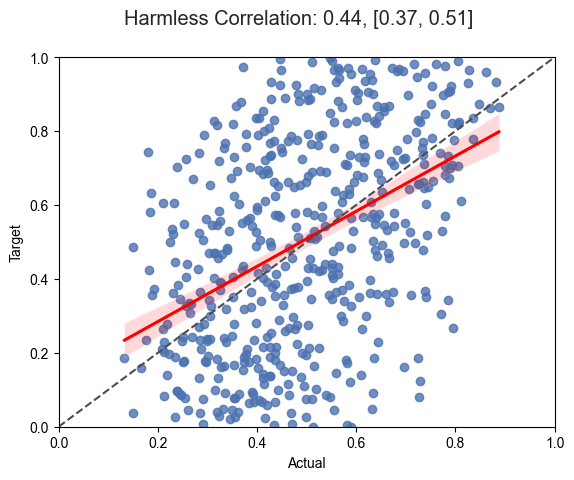
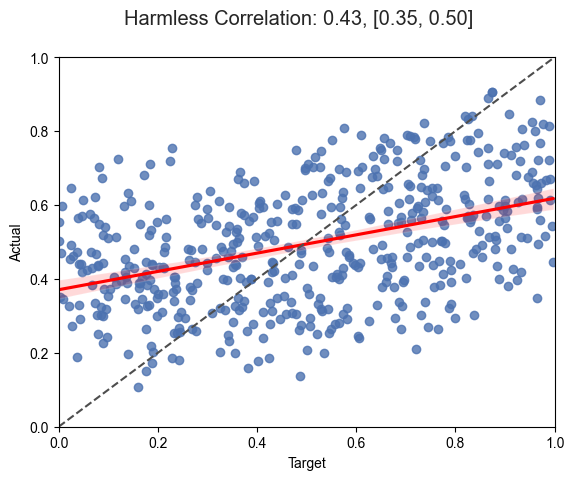
update to flip the axes for images

diff --git a/train/evaluate_separate_policy.py b/train/evaluate_separate_policy.py
@@ -53,7 +53,7 @@ from train.metrics.reward_metric import HelpfulHarmlessEvaluationMetric
 from train.neptune_utils.runs import get_openai_model_from_neptune
 from train.normalizer.reward_normalizer import (
     get_separate_normalizer_from_neptune,
-    RewardNormalizer,
+    RewardNormalizer, DoNothingNormalizer,
 )
 from train.policy_prompt_formatter import (
     PolicyPromptFormatter,
@@ -343,28 +343,28 @@ def plot_random_reward_evaluations(
     )
 
     harmless_results: ScatterplotResults = plot_scatterplot_and_correlation(
-        x=actual_harmless,
-        y=target_harmless,
+        y=actual_harmless,
+        x=target_harmless,
         title="Harmless",
-        xlabel="Actual",
-        ylabel="Target",
+        ylabel="Actual",
+        xlabel="Target",
     )
 
     helpful_results = plot_scatterplot_and_correlation(
-        x=actual_helpful,
-        y=target_helpful,
+        y=actual_helpful,
+        x=target_helpful,
         title="Helpful",
-        xlabel="Actual",
-        ylabel="Target",
+        ylabel="Actual",
+        xlabel="Target",
     )
 
     # plot Actual helpful vs Actual Harmless
     helpful_vs_harmless_results = plot_scatterplot_and_correlation(
-        x=actual_helpful,
-        y=actual_harmless,
+        y=actual_helpful,
+        x=actual_harmless,
         title="Helpful vs Harmless",
-        xlabel="Actual Helpful",
-        ylabel="Actual Harmless",
+        ylabel="Actual Helpful",
+        xlabel="Actual Harmless",
     )
 
     return HelpfulHarmlessScatterplots(
@@ -506,7 +506,7 @@ def log_results_to_neptune(
 
 if __name__ == "__main__":
     # Optionally retrieve the openai model id from neptune
-    run_id = "OF-53"
+    run_id = "OF-8"
     neptune_project = OFFLINE_SEPARATE_POLICY_NEPTUNE_PROJECT
     policy_model_id = get_openai_model_from_neptune(
         neptune_api_key=NEPTUNE_KEY,
@@ -514,11 +514,7 @@ if __name__ == "__main__":
         neptune_run_id=run_id,
     )
     # Optionally retrieve the normalizer from neptune
-    normalizer = get_separate_normalizer_from_neptune(
-        neptune_api_key=NEPTUNE_KEY,
-        neptune_project_name=neptune_project,
-        neptune_run_id=run_id,
-    )
+    normalizer = DoNothingNormalizer()
     policy_config = OpenaiInferenceConfig(
         model=policy_model_id,  # You can set this manually too
         temperature=1.0,  # try 0.6, 1.0
@@ -531,6 +527,7 @@ if __name__ == "__main__":
     policy_formatter = RewardAtBottomFormatter()
     number_samples = 500
     rollouts_per_prompts = 1
+    print("Starting evaluation")
     evaluations: EvaluationResults = run_evaluation(
         sample_prompts=number_samples,
         rollouts_per_prompt=rollouts_per_prompts,

diff --git a/train/normalizer/reward_normalizer.py b/train/normalizer/reward_normalizer.py
@@ -29,7 +29,6 @@ class RewardNormalizer(ABC):
     def to_dict(self) -> dict[str, Any]:
         raise NotImplementedError
 
-
     @staticmethod
     def create_from_dict(_dict: dict[str, Any]) -> "RewardNormalizer":
         name = _dict["name"]
@@ -58,7 +57,7 @@ class MinMaxNormalizer(RewardNormalizer):
         self.helpful_max = helpful_max
 
     @staticmethod
-    def from_rewards(rewards: Slist[HelpfulHarmlessReward])-> "MinMaxNormalizer":
+    def from_rewards(rewards: Slist[HelpfulHarmlessReward]) -> "MinMaxNormalizer":
         harmless_rewards: Slist[float] = rewards.map(lambda r: r.harmless)
         helpful_rewards: Slist[float] = rewards.map(lambda r: r.helpful)
         harmless_min: float = min(harmless_rewards)
@@ -114,6 +113,7 @@ class DoNothingNormalizer(RewardNormalizer):
     @staticmethod
     def from_rewards(rewards: Slist[HelpfulHarmlessReward]) -> "DoNothingNormalizer":
         return DoNothingNormalizer()
+
     def normalize_reward(self, reward: HelpfulHarmlessReward) -> HelpfulHarmlessReward:
         return reward
 
@@ -221,14 +221,19 @@ def get_separate_normalizer_from_neptune(
     neptune_api_key: str,
     neptune_project_name: str,
     neptune_run_id: str,
-) -> RewardNormalizer:
+) -> Optional[RewardNormalizer]:
     run = get_neptune_run(
         neptune_api_key=neptune_api_key,
         neptune_project_name=neptune_project_name,
         neptune_run_id=neptune_run_id,
     )
-    normalizer_dict = run[REWARD_NORMALIZER_NEPTUNE_KEY].fetch()
-    assert normalizer_dict is not None, "Normalizer is None"
-    normalizer = RewardNormalizer.create_from_dict(normalizer_dict)
+    normalizer_dict = (
+        run[REWARD_NORMALIZER_NEPTUNE_KEY].fetch()
+        if REWARD_NORMALIZER_NEPTUNE_KEY in run
+        else None
+    )
+    normalizer = (
+        RewardNormalizer.create_from_dict(normalizer_dict) if normalizer_dict else None
+    )
     run.stop()
     return normalizer

diff --git a/evaluate/inference.py b/evaluate/inference.py
@@ -3,6 +3,7 @@ from typing import Optional, Dict, Any, List, Union
 
 import numpy as np
 import openai
+from openai import APIError
 from pydantic import BaseModel, conlist
 from slist import Slist
 from slist.pydantic_compat import SlistPydantic
@@ -145,22 +146,27 @@ def get_openai_completion(
     config: OpenaiInferenceConfig,
     prompt: str,
 ) -> GPTFullResponse:
-    response_dict = openai.Completion.create(
-        model=config.model,
-        prompt=prompt,
-        max_tokens=config.max_tokens,
-        temperature=config.temperature,
-        presence_penalty=config.presence_penalty,
-        frequency_penalty=config.frequency_penalty,
-        top_p=1,
-        n=1,
-        stream=False,
-        stop=[config.stop] if isinstance(config.stop, str) else config.stop,
-        # needed to get logprobs
-        logprobs=5,
-        # needed to get logprobs of prompt
-        echo=True,
-    )
+    try:
+        response_dict = openai.Completion.create(
+            model=config.model,
+            prompt=prompt,
+            max_tokens=config.max_tokens,
+            temperature=config.temperature,
+            presence_penalty=config.presence_penalty,
+            frequency_penalty=config.frequency_penalty,
+            top_p=1,
+            n=1,
+            stream=False,
+            stop=[config.stop] if isinstance(config.stop, str) else config.stop,
+            # needed to get logprobs
+            logprobs=5,
+            # needed to get logprobs of prompt
+            echo=True,
+        )
+    except APIError as e:
+        print(f"APIError with prompt: {prompt}")
+        raise e
+
     end_tokens: set[str] = (
         set(config.stop)
         if isinstance(config.stop, list)

diff --git a/documentation/main_page.md b/documentation/main_page.md
@@ -83,6 +83,7 @@ todo: chart of distribution of rewards in the training set.
 
 We compare to a policy conditioned on the helpfulness reward only. We evaluate its performance on prompts from the helpful dataset only.
 This results to a simpler task for the policy, since we only aim for it to be helpful, rather than helpfulness and harmless at the same time.
+We also observe that the relationship with the target reward is non-monotonic. At very high target rewards, the policy generates completions that are worse than setting a lower target reward.
 
 
 ### Separate reward models
